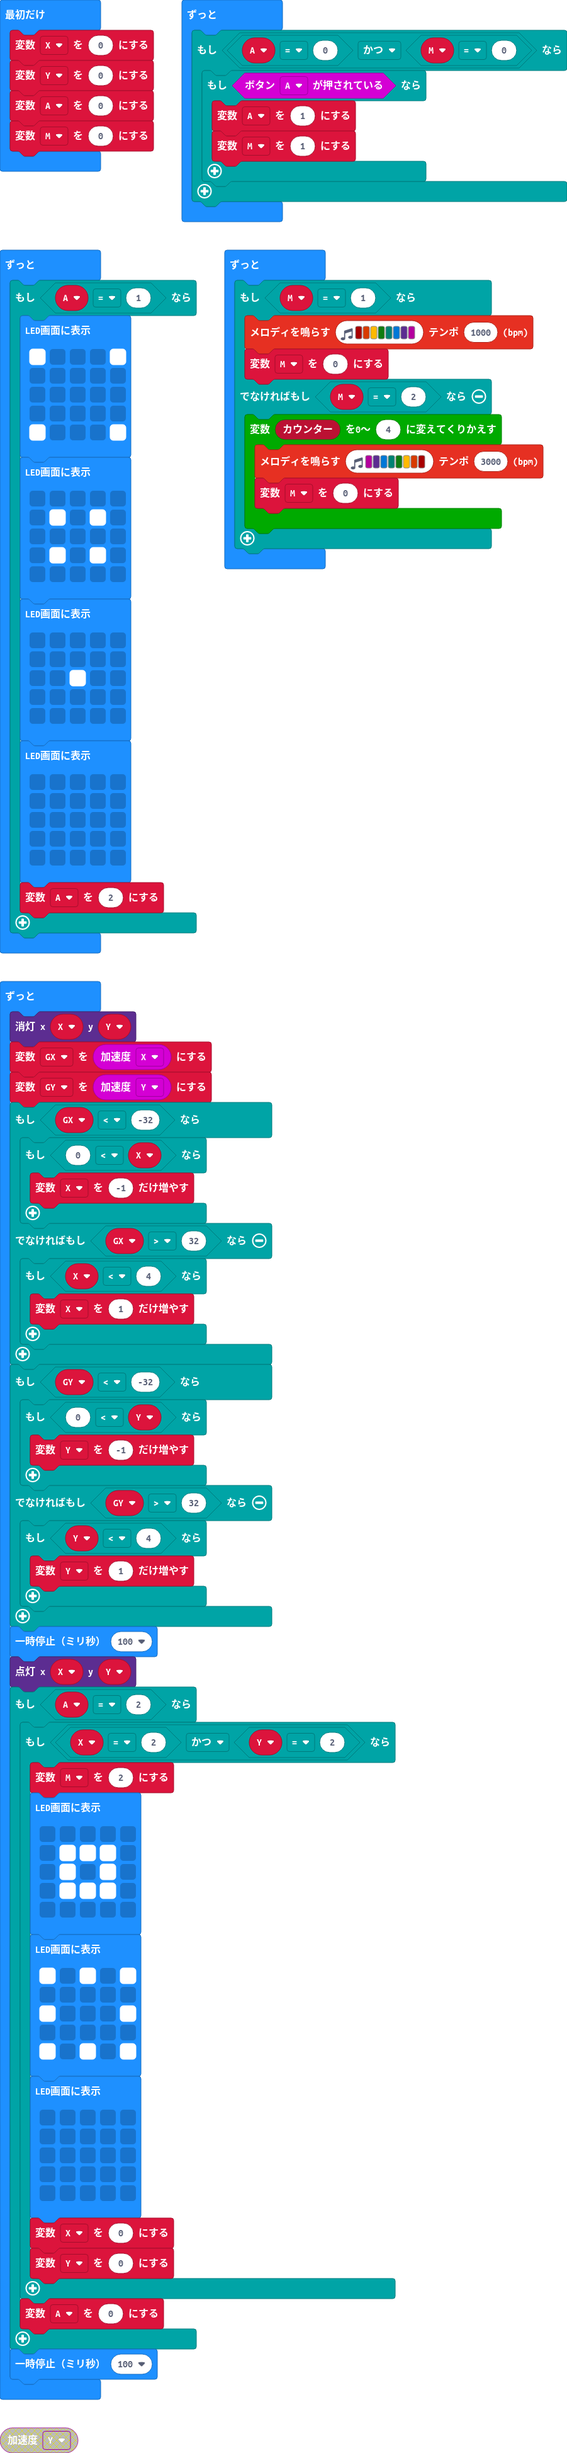
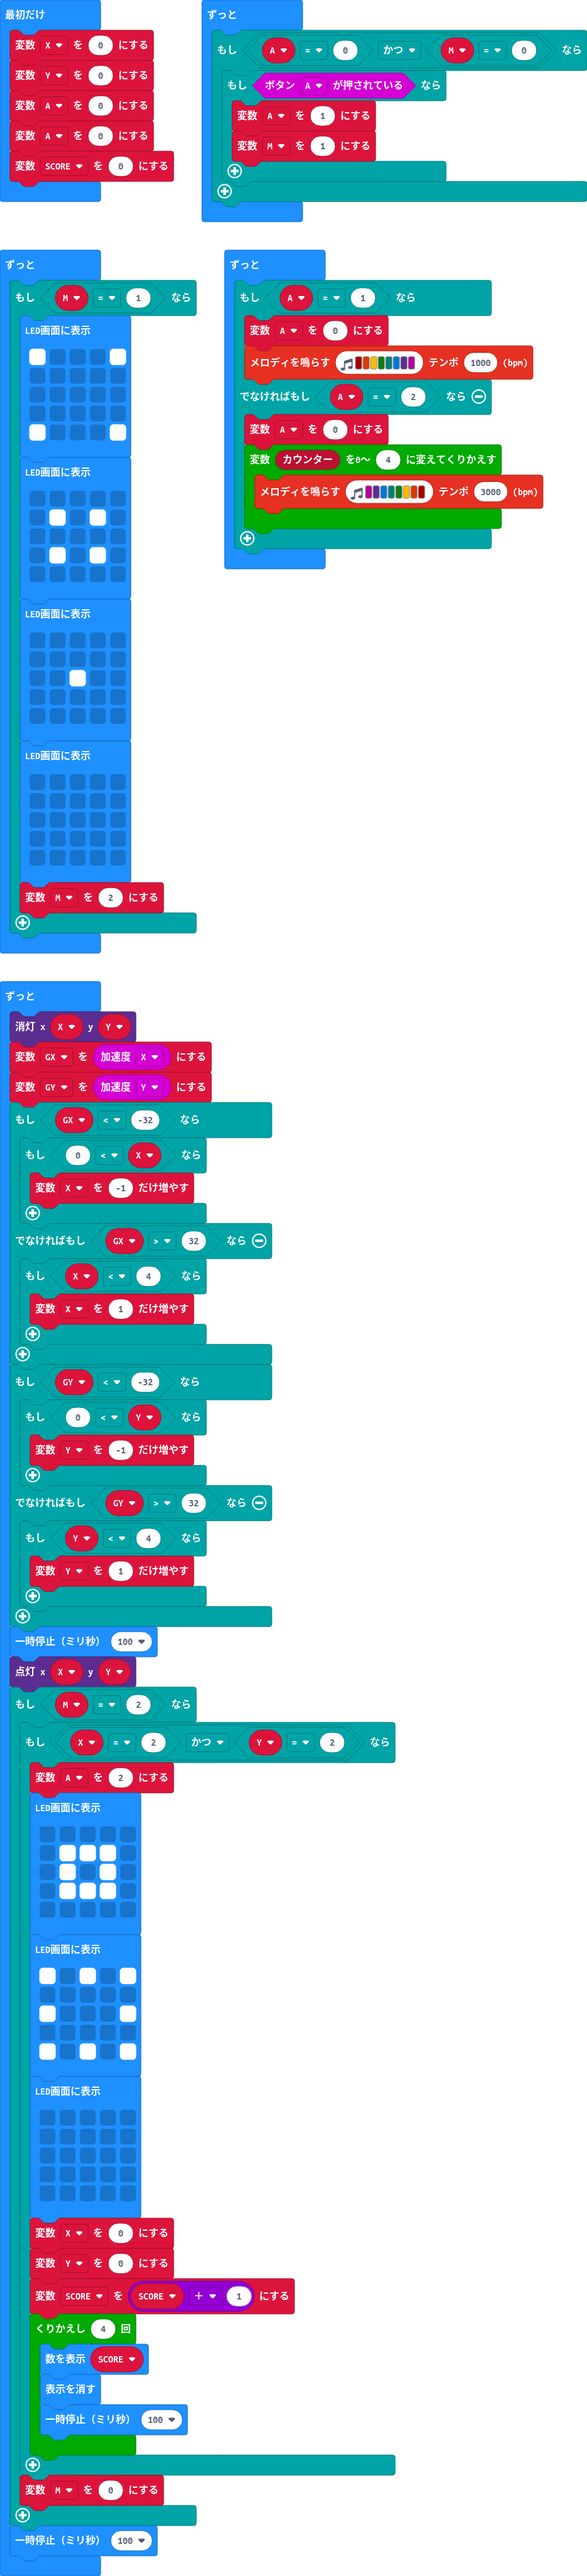
変数名をA(udio)とM(issile)、スコア表示追加等

Changed region(s): [[0.0, 0.0, 1.0, 1.0]]

diff --git a/main.ts b/main.ts
@@ -1,9 +1,11 @@
 let GY = 0
 let GX = 0
+let M = 0
 let X = 0
 let Y = 0
 let A = 0
-let M = 0
+A = 0
+let SCORE = 0
 basic.forever(function () {
     if (A == 0 && M == 0) {
         if (input.buttonIsPressed(Button.A)) {
@@ -13,7 +15,7 @@ basic.forever(function () {
     }
 })
 basic.forever(function () {
-    if (A == 1) {
+    if (M == 1) {
         basic.showLeds(`
             # . . . #
             . . . . .
@@ -42,17 +44,17 @@ basic.forever(function () {
             . . . . .
             . . . . .
             `)
-        A = 2
+        M = 2
     }
 })
 basic.forever(function () {
-    if (M == 1) {
+    if (A == 1) {
+        A = 0
         music.playMelody("C5 B A G F E D C ", 1000)
-        M = 0
-    } else if (M == 2) {
+    } else if (A == 2) {
+        A = 0
         for (let カウンター = 0; カウンター <= 4; カウンター++) {
             music.playMelody("C D E F G A B C5 ", 3000)
-            M = 0
         }
     }
 })
@@ -80,9 +82,9 @@ basic.forever(function () {
     }
     basic.pause(100)
     led.plot(X, Y)
-    if (A == 2) {
+    if (M == 2) {
         if (X == 2 && Y == 2) {
-            M = 2
+            A = 2
             basic.showLeds(`
                 . . . . .
                 . # # # .
@@ -106,8 +108,14 @@ basic.forever(function () {
                 `)
             X = 0
             Y = 0
+            SCORE = SCORE + 1
+            for (let index = 0; index < 4; index++) {
+                basic.showNumber(SCORE)
+                basic.clearScreen()
+                basic.pause(100)
+            }
         }
-        A = 0
+        M = 0
     }
     basic.pause(100)
 })
